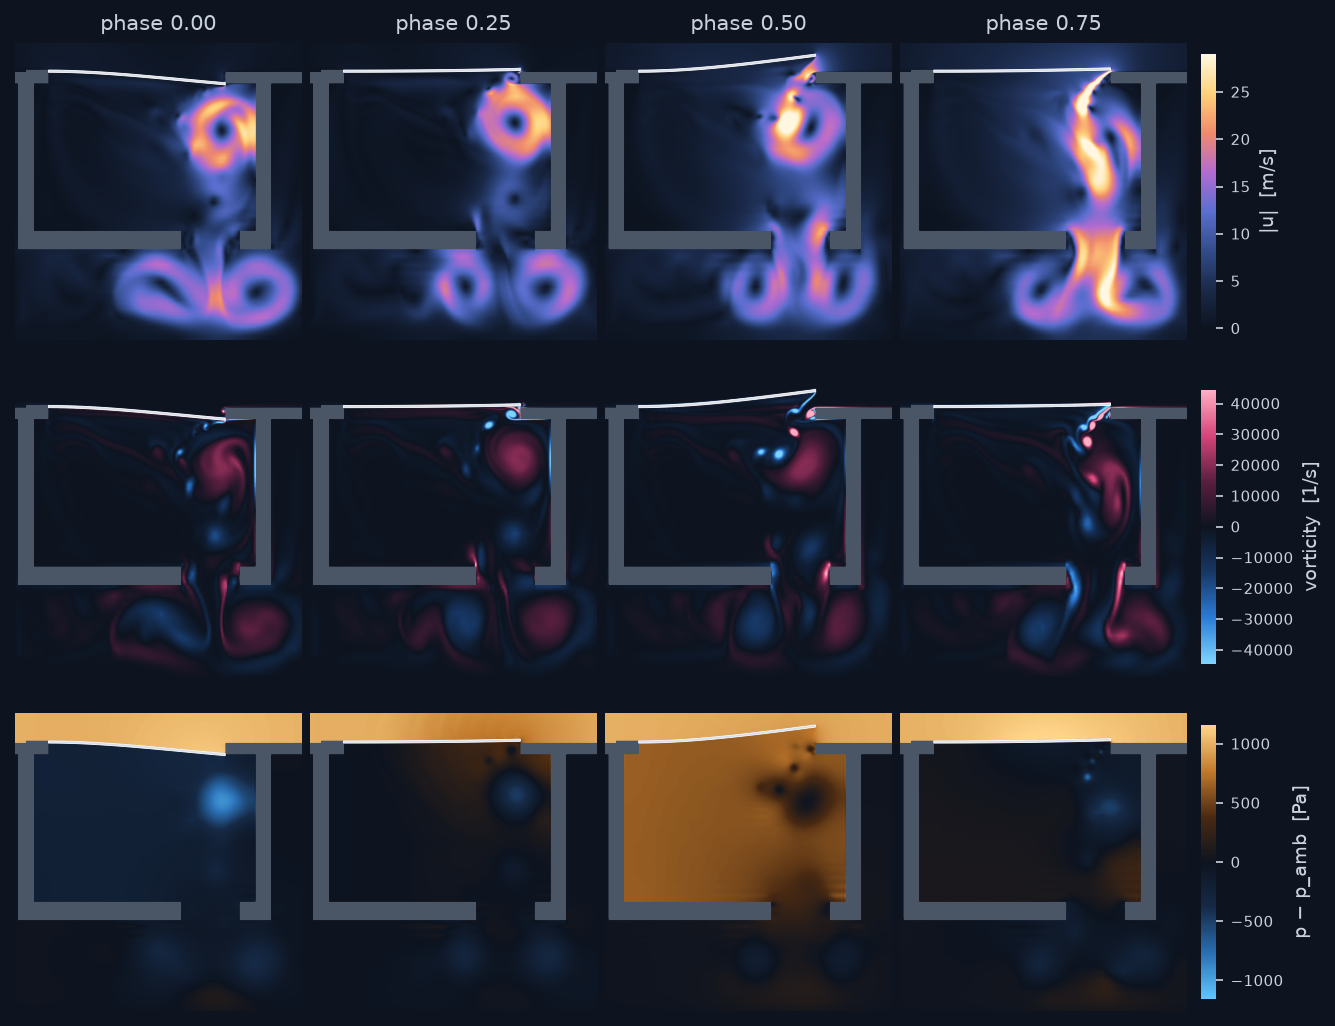
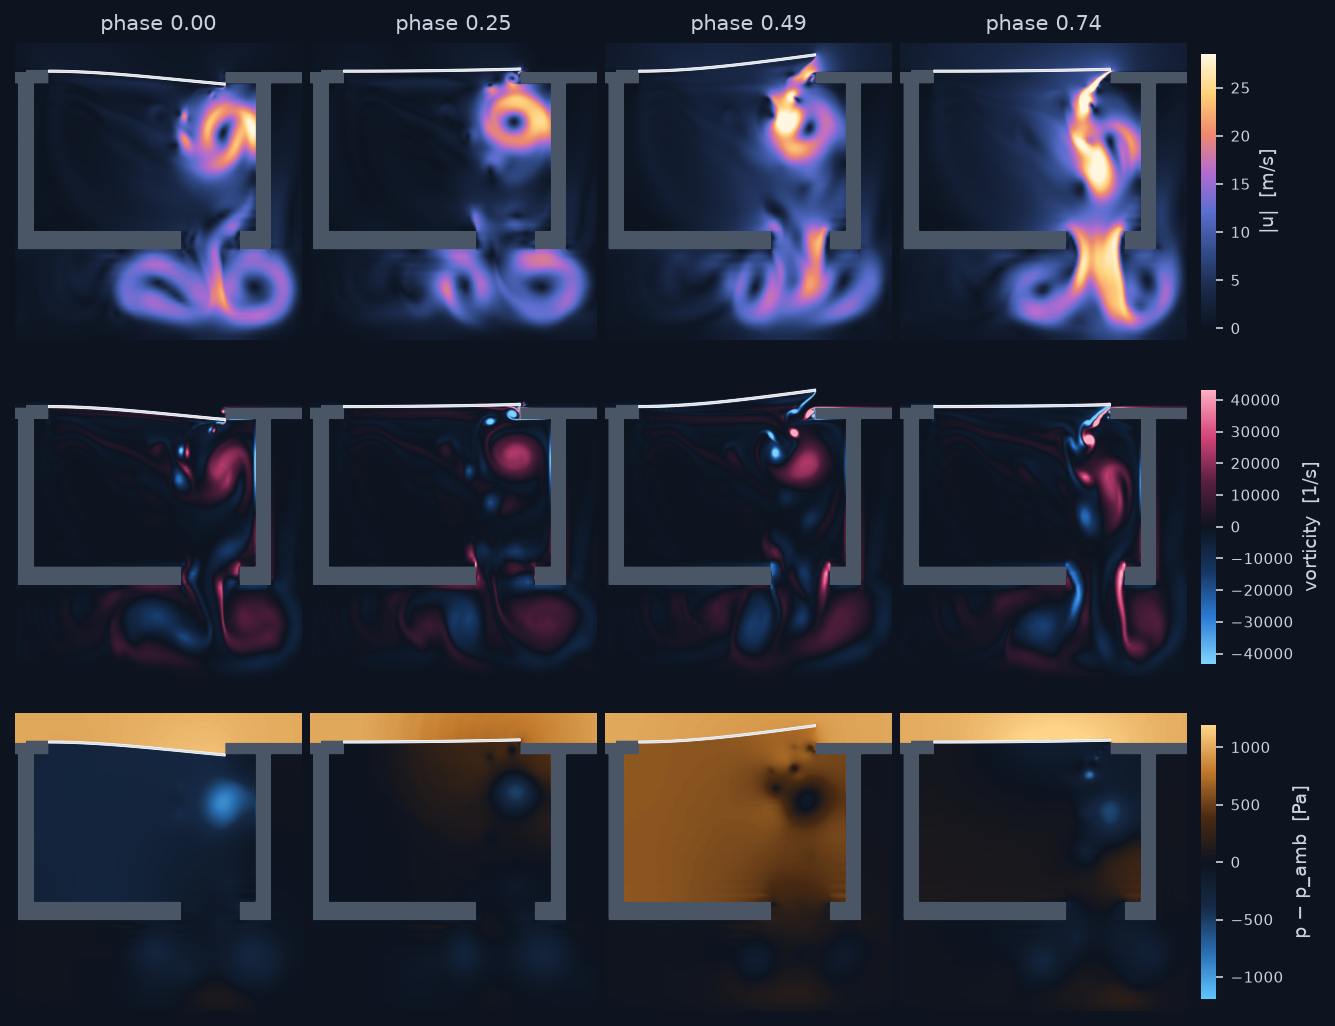
Smooth 72-frame-per-cycle flow animation and stills

diff --git a/render_fields.py b/render_fields.py
@@ -232,8 +232,8 @@ def movie(d, out, fps=None, loops=3):
                         "-movflags", "+faststart", os.path.join(out, "cycle.mp4")], check=True)
         # GitHub READMEs can't embed mp4 from the repo: also write a palette-optimised GIF (one cycle, looping)
         subprocess.run(["ffmpeg", "-y", "-loglevel", "error", "-i", os.path.join(out, "cycle.mp4"), "-t",
-                        f"{nt / fps:.4f}", "-vf", f"fps={fps},scale=960:-1:flags=lanczos,split[a][b];"
-                        "[a]palettegen=max_colors=192:stats_mode=full[p];[b][p]paletteuse=dither=sierra2_4a",
+                        f"{nt / fps:.4f}", "-vf", f"fps={fps},scale=800:-1:flags=lanczos,split[a][b];"
+                        "[a]palettegen=max_colors=128:stats_mode=full[p];[b][p]paletteuse=dither=bayer:bayer_scale=4",
                         "-loop", "0", os.path.join(out, "flow.gif")], check=True)
     shutil.rmtree(tmp)
 

diff --git a/README.md b/README.md
@@ -146,7 +146,8 @@ pip install "numpy<2.4" scipy matplotlib numba "numba-cuda[cu13]"
 python reed_side.py --prefix sw --p-amb 70e3 85e3 101325 115e3 130e3 --dp 1000 2000 --kick=-0.5e-3 --t-end 0.06
 python compare.py runs/sw_*                        # pitch at matched amplitude
 python poster_chart.py runs/sw_dp_compare.json     # the chart above
-python render_fields.py runs/sw_dp1000_p_amb101325 --out poster --movie
+python reed_side.py --prefix an --dp 1000 --kick=-0.5e-3 --t-end 0.06 --snap-per-cycle 72   # 72 frames per cycle
+python render_fields.py runs/an_run --out poster --movie   # stills.png, flow.gif
 ```
 
 | file | what |
